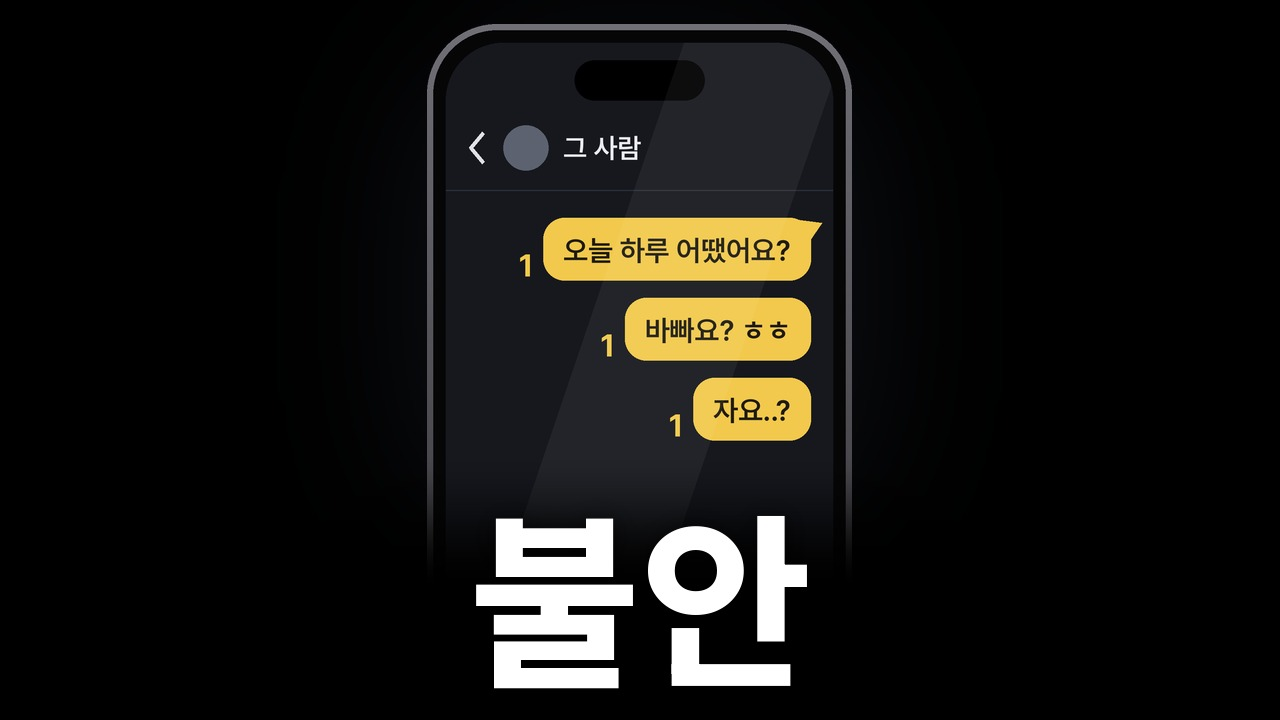
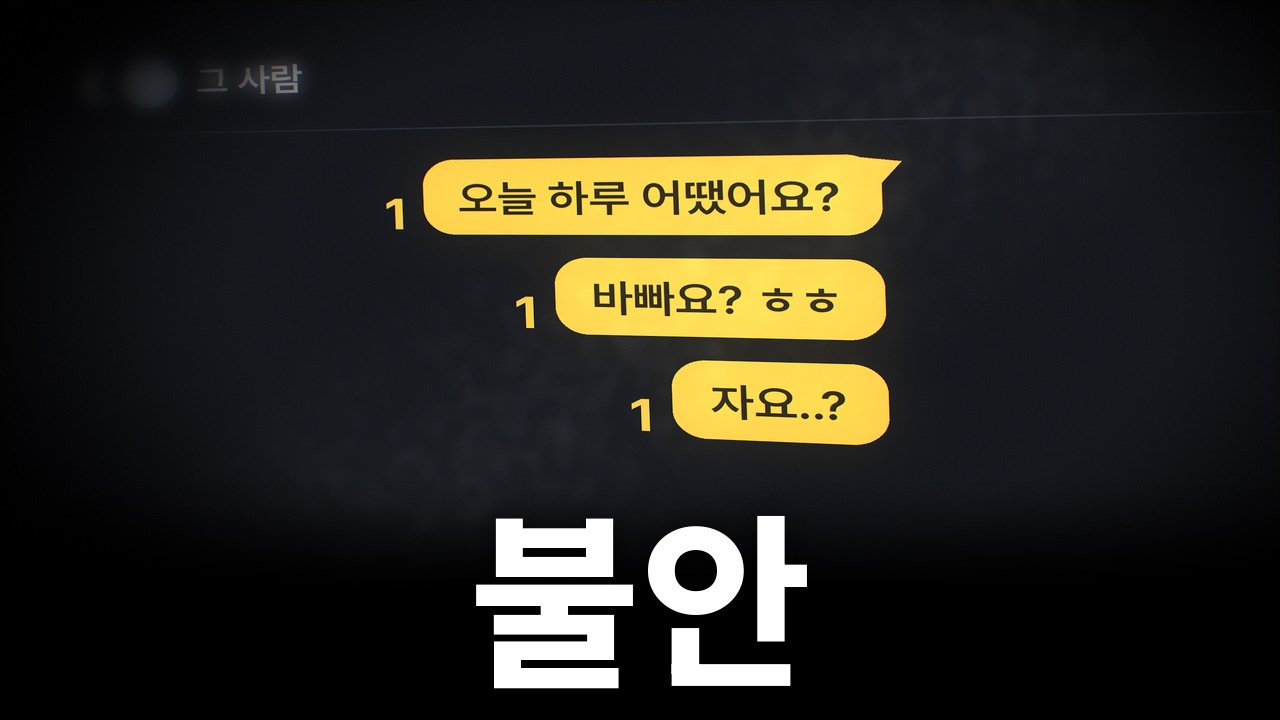
F의연애: 01편 썸네일을 채팅 확대판으로 변경
- thumb_chat.py: 휴대폰 몸체 없이 채팅 내용만 크게, 화면을 가까이서 찍은 사진처럼 처리(원근, 초점 흐림, 빛 번짐, 반사)
- 01편 썸네일 빨간 글씨판과 비교용 흰 글씨판(1280x720), 이전 휴대폰판은 초안/으로 이동
- README, CLAUDE.md, 진행기록 갱신

Claude-Session: https://claude.ai/code/session_01W2LvTK1LxBBrCR9gG9ohCC

diff --git a/F의연애/썸네일/thumb_chat.py b/F의연애/썸네일/thumb_chat.py
@@ -1,0 +1,106 @@
+# 「F의 연애」 썸네일: 채팅 확대판 (2026-10-22 사용자 지시)
+# 휴대폰 몸체 없이 대화 내용만 크게 확대해, 썸네일을 작게 봐도 노란 말풍선과 읽지 않은 '1'이 눈에 들어오게 한다.
+# 실제 화면을 가까이서 찍은 사진처럼 보이게: 살짝 기운 원근, 가장자리 초점 흐림, 말풍선 빛 번짐, 은은한 화면 반사.
+# 배경은 검은색으로 사라지고, 아래에 주제 단어(thumb.py와 같은 글꼴·위치).
+#
+# usage: thumb_chat.py OUT.jpg --word 불안 --color red [--msgs "a|b|c"] [--name "그 사람"]
+import os, sys
+import numpy as np
+from PIL import Image, ImageDraw, ImageFilter
+
+sys.path.insert(0, os.path.dirname(os.path.abspath(__file__)))
+from thumb import W, H, YEL, font, bottom_fade, put_word   # noqa: E402
+
+S = 2                       # draw at 2x, then downsample
+SCREEN = (22, 24, 30)       # dark-mode chat background
+
+
+def chat_panel(msgs, name):
+    """Flat dark-mode chat panel at 2x. Bubbles are big: about 88 px tall in the final 1280x720 thumbnail."""
+    pw, ph = 1180 * S, 700 * S
+    img = Image.new("RGB", (pw, ph), SCREEN)
+    d = ImageDraw.Draw(img)
+    hy = 62 * S                                                     # header (ends up soft and partly cropped)
+    d.line([(70 * S, hy - 22 * S), (52 * S, hy), (70 * S, hy + 22 * S)], fill=(225, 225, 230), width=6 * S, joint="curve")
+    d.ellipse([96 * S, hy - 32 * S, 160 * S, hy + 32 * S], fill=(92, 98, 112))
+    d.text((182 * S, hy), name, font=font("SemiBold", 42 * S), fill=(235, 235, 240), anchor="lm")
+    d.line([(0, 128 * S), (pw, 128 * S)], fill=(44, 47, 56), width=2 * S)
+    fb, f1 = font("SemiBold", 46 * S), font("Bold", 54 * S)
+    y = 168 * S
+    right = pw - 320 * S
+    for i, m in enumerate(msgs):
+        tw = fb.getlength(m)
+        bw, bh = tw + 72 * S, 92 * S
+        x1, x0 = right, right - bw
+        d.rounded_rectangle([x0, y, x1, y + bh], radius=32 * S, fill=YEL)
+        if i == 0:
+            d.polygon([(x1 - 40 * S, y), (x1 + 18 * S, y + 8 * S), (x1 - 4 * S, y + 38 * S)], fill=YEL)
+        d.text(((x0 + x1) / 2, y + bh / 2 + 2 * S), m, font=fb, fill=(30, 26, 18), anchor="mm")
+        d.text((x0 - 16 * S, y + bh - 6 * S), "1", font=f1, fill=YEL, anchor="rs")
+        y += bh + 28 * S
+    return img
+
+
+def perspective_coeffs(dst, src):
+    A, B = [], []
+    for (x, y), (u, v) in zip(dst, src):
+        A.append([x, y, 1, 0, 0, 0, -u * x, -u * y]); B.append(u)
+        A.append([0, 0, 0, x, y, 1, -v * x, -v * y]); B.append(v)
+    return np.linalg.solve(np.array(A, np.float64), np.array(B, np.float64)).tolist()
+
+
+def photo_look(panel):
+    """Place the panel with a mild 3D tilt (left side farther away), then add depth of field, glow and glare."""
+    CW, CH = W * S, H * S
+    pw, ph = panel.size
+    # target quad (2x canvas): right edge nearer/taller than the left edge, slight downward tilt
+    dst = [(40 * S, 40 * S), (1270 * S, -10 * S), (1290 * S, 650 * S), (60 * S, 560 * S)]
+    src = [(0, 0), (pw, 0), (pw, ph), (0, ph)]
+    img = panel.transform((CW, CH), Image.PERSPECTIVE, perspective_coeffs(dst, src), Image.BICUBIC, fillcolor=SCREEN)
+    a = np.asarray(img, np.float32)
+    # depth of field: sharp around the bubbles, softer toward the far (left) side and the top header
+    yy, xx = np.mgrid[0:CH, 0:CW].astype(np.float32)
+    cx, cy = 760 * S, 300 * S
+    dist = np.sqrt(((xx - cx) / (560 * S)) ** 2 + ((yy - cy) / (300 * S)) ** 2)
+    wgt = np.clip((dist - 0.75) / 0.6, 0, 1)
+    soft = np.asarray(img.filter(ImageFilter.GaussianBlur(9 * S)), np.float32)
+    a = a * (1 - wgt[..., None]) + soft * wgt[..., None]
+    # glow: bright yellow bubbles bloom a little, like a lit screen in a dark room
+    lum = a.mean(2)
+    bright = Image.fromarray(np.clip((lum - 120) * 2, 0, 255).astype(np.uint8)).filter(ImageFilter.GaussianBlur(26 * S))
+    a += (np.asarray(bright, np.float32) / 255)[..., None] * np.array([70, 55, 15], np.float32)
+    # faint diagonal glare on the glass; smudges (fingerprints) only show where the glare is, as on real glass
+    band = np.clip(1 - np.abs((xx - 0.62 * CW) * 0.8 + (yy - 0.3 * CH) * 1.0) / (260 * S), 0, 1)
+    rng = np.random.default_rng(11)
+    sm = Image.fromarray((rng.random((CH // 8, CW // 8)) * 255).astype(np.uint8)).resize((CW, CH), Image.BICUBIC)
+    sm = np.asarray(sm.filter(ImageFilter.GaussianBlur(6 * S)), np.float32) / 255
+    a += (band * (6 + 16 * np.clip((sm - 0.45) * 3, 0, 1)))[..., None]
+    # light falls off toward the frame edges (dark room): fade to pure black
+    r = np.sqrt(((xx - 0.55 * CW) / (0.62 * CW)) ** 2 + ((yy - 0.40 * CH) / (0.62 * CH)) ** 2)
+    v = np.clip(1 - (r - 0.55) / 0.5, 0, 1)
+    a *= (v * v * (3 - 2 * v))[..., None]
+    a += np.random.default_rng(3).normal(0, 1.6, a.shape)          # faint sensor noise
+    img = Image.fromarray(np.clip(a, 0, 255).astype(np.uint8))
+    # lens: red and blue drift apart slightly toward the edges (chromatic aberration)
+    rch, gch, bch = img.split()
+    def zoom(ch, k):
+        w2, h2 = round(CW * k), round(CH * k)
+        z = ch.resize((w2, h2), Image.BICUBIC)
+        return z.crop(((w2 - CW) // 2, (h2 - CH) // 2, (w2 - CW) // 2 + CW, (h2 - CH) // 2 + CH))
+    img = Image.merge("RGB", (zoom(rch, 1.0016), gch, zoom(bch, 0.9984)))
+    out = img.resize((W, H), Image.LANCZOS)
+    return out
+
+
+def make(out, msgs, name, word, color):
+    img = photo_look(chat_panel(msgs, name))
+    img = bottom_fade(img, 470, 600)
+    put_word(img, word, color).save(out, quality=93)
+
+
+if __name__ == "__main__":
+    a = sys.argv[1:]
+    opt = lambda k, dflt: a[a.index(k) + 1] if k in a else dflt
+    make(a[0], opt("--msgs", "오늘 하루 어땠어요?|바빠요? ㅎㅎ|자요..?").split("|"), opt("--name", "그 사람"),
+         opt("--word", "불안"), opt("--color", "red"))
+    print(a[0])

diff --git a/F의연애/썸네일/README.md b/F의연애/썸네일/README.md
@@ -2,7 +2,11 @@
 
 사용자 지시(2026-10-22): 뒷배경은 검은색. VOX 느낌으로 내용의 핵심이 되는 물체를 가운데 두고, 그 밑에 영상 주제 단어를 크게 쓴다(빨간색 또는 흰색).
 
-갱신(2026-10-22): 사용자가 시안 B(휴대폰 + 빨간 글씨)를 골랐다. 첫 시안 글씨(Pretendard Black)가 촌스럽다고 해서, 사용자가 보여 준 참고 썸네일처럼 깔끔한 본고딕 계열로 바꿨다.
+갱신(2026-10-22)
+1. 사용자가 시안 B(휴대폰 + 빨간 글씨)를 골랐다. 첫 시안 글씨(Pretendard Black)가 촌스럽다고 해서, 사용자가 보여 준 참고 썸네일처럼 깔끔한 본고딕 계열로 바꿨다.
+2. 사용자 지시: 참고 채널처럼 만들되 너무 따라 하지 않게. 롱폼 가로 크기로. 뒤의 그림은 최대한 사진처럼. 휴대폰 몸체는 굳이 필요 없으니, 안의 대화 내용만 확대해서 작게 봐도 눈에 확 들어오게.
+3. 그래서 01편은 휴대폰을 빼고 채팅 내용만 크게 확대한 판(thumb_chat.py)으로 바꿨다. 화면을 가까이서 찍은 사진처럼 처리했다.
+4. 참고 채널과 다르게 가는 점: 우리 채널의 노란 말풍선·읽지 않은 '1'을 물체로 쓰고, 제목은 빨간색을 쓴다(참고 채널은 사진 속 사물 + 흰 제목).
 
 ---
 
@@ -10,7 +14,8 @@
 
 1. 크기: 1280×720, JPG. 「INFJ입니다.」 지침 7-1과 같은 크기입니다.
 2. 배경: 순검정
-3. 물체: 가운데 위쪽에 둡니다. 휴대폰은 위 끝 y=24, 너비 425px입니다. 아래쪽은 y=450~590에서 검게 사라져 글자 뒤를 비웁니다.
+3. 물체: 가운데 위쪽에 둡니다. 작게 봐도 알아보도록 핵심만 크게 씁니다(01편은 말풍선 높이 약 90px). 아래쪽은 y=470~600에서 검게 사라져 글자 뒤를 비웁니다.
+   - 사진처럼 보이게 하는 처리(thumb_chat.py): 살짝 기운 원근(왼쪽이 멀어짐), 가장자리 초점 흐림, 말풍선 빛 번짐, 유리 반사와 지문 얼룩, 아주 약한 렌즈 색 번짐과 노이즈, 가장자리를 검게 감싸는 조명
 4. 주제 단어
    - 글꼴: Noto Sans KR(본고딕 계열, OFL) 굵기 800(ExtraBold), 186px, 가운데 정렬, 글자 바닥선 y=672
    - 글자 아래에 은은한 검은 그림자(아래로 6px, 흐림 14px)를 깔아 물체와 떼어 줍니다.
@@ -33,9 +38,9 @@
 
 ## 3. 01편 (01_불안형_답장/)
 
-1. 썸네일_빨간글씨.jpg: 사용자가 고른 B안을 새 글꼴로 다시 만든 것. 나만 보낸 채팅 화면(말풍선 3개마다 읽지 않은 '1') + 빨간 글씨 "불안"
-2. 썸네일_흰글씨.jpg: 같은 그림 + 흰 글씨(참고 썸네일과 같은 색, 비교용)
-3. 초안/: 첫 시안 A(휴대폰 + 흰 글씨), B(휴대폰 + 빨간 글씨), C(손 사진 + 빨간 글씨). 글꼴은 Pretendard Black
+1. 썸네일_빨간글씨.jpg: 채팅 확대판. 나만 보낸 말풍선 3개("오늘 하루 어땠어요?", "바빠요? ㅎㅎ", "자요..?")와 읽지 않은 '1' + 빨간 글씨 "불안"
+2. 썸네일_흰글씨.jpg: 같은 그림 + 흰 글씨(비교용)
+3. 초안/: 첫 시안 A·B·C(Pretendard Black), B2(휴대폰 + 본고딕 글씨, 빨간·흰)
 
 ---
 
@@ -44,9 +49,11 @@
 1. 글꼴을 fonts/에 둡니다(또는 FONT_DIR 환경 변수로 위치 지정).
    - 주제 단어: Noto Sans KR 가변 글꼴(OFL)을 NotoSansKR-VF.ttf라는 이름으로 저장합니다. https://raw.githubusercontent.com/google/fonts/main/ofl/notosanskr/NotoSansKR%5Bwght%5D.ttf
    - 휴대폰 화면 글자: Pretendard Bold·SemiBold(OFL). https://cdn.jsdelivr.net/npm/pretendard@1.3.9/dist/public/static/Pretendard-Bold.otf (SemiBold도 같은 형식)
-2. 휴대폰 물체
+2. 채팅 확대판(01편 결정안)
+   - `python3 thumb_chat.py out.jpg --word 불안 --color red --msgs "오늘 하루 어땠어요?|바빠요? ㅎㅎ|자요..?" --name "그 사람"`
+3. 휴대폰 물체(초안 방식)
    - `python3 thumb.py phone out.jpg --word 불안 --color white --msgs "오늘 하루 어땠어요?|바빠요? ㅎㅎ|자요..?" --name "그 사람"`
-3. 사진 물체
+4. 사진 물체
    - `ffmpeg -ss 1.0 -i 4915.mp4 -frames:v 1 f.png`
    - `python3 thumb.py photo out.jpg f.png --word 불안 --color red --crop 192,216,1728,1080 --gamma 1.35`
-4. 필요한 파이썬 패키지: pillow, numpy
+5. 필요한 파이썬 패키지: pillow, numpy

diff --git a/F의연애/CLAUDE.md b/F의연애/CLAUDE.md
@@ -165,7 +165,7 @@
 1. 01편(A1-1 불안형 답장) 초안 v1에 대한 사용자 검토 반영(대본/01_불안형_답장.md).
    - 사용자가 최종 대본과 녹음 파일을 주면 스톡 혼합 방식으로 본편 영상(효과음 포함)을 만든다(아래 '영상 제작').
    - 정해진 것(2026-10-22): 제작 방식은 스톡 혼합, 하단 자막은 넣는다(스톡 혼합 규격).
-   - 썸네일: 틀을 정했다(썸네일/README.md). 검은 배경 + 가운데 핵심 물체 + 아래 큰 주제 단어. 01편은 B안(직접 그린 휴대폰 채팅 화면 + 빨간 글씨 "불안")으로 결정했고, 글씨는 본고딕 계열(Noto Sans KR 800)로 바꿨다(2026-10-22). 결과: 썸네일/01_불안형_답장/썸네일_빨간글씨.jpg
+   - 썸네일: 틀을 정했다(썸네일/README.md). 검은 배경 + 가운데 핵심 물체(작게 봐도 보이게 크게, 사진처럼) + 아래 큰 주제 단어(본고딕 계열 Noto Sans KR 800). 참고 채널처럼 하되 너무 따라 하지 않는다(2026-10-22 사용자 지시). 01편은 휴대폰 없이 채팅 내용만 확대한 판 + 빨간 글씨 "불안". 결과: 썸네일/01_불안형_답장/썸네일_빨간글씨.jpg
    - 결정 대기: 사례 구간 캐릭터(감자를 쓸지, 어떻게 만들지)
 2. 다음 편 소재는 사용자에게 먼저 묻는다.
 3. 핸들 확정: 유튜브 스튜디오와 인스타그램 앱에서 직접 입력해 확인(진행기록.md 참고).

diff --git a/F의연애/진행기록.md b/F의연애/진행기록.md
@@ -4,6 +4,18 @@
 
 ---
 
+## 2026-10-22 (8) 썸네일: 채팅 내용만 확대, 사진처럼
+
+1. 사용자 지시
+- 참고 채널처럼 썸네일을 만들되 너무 따라 한 것처럼 보이지 않게
+- 롱폼 가로 썸네일 크기로, 뒤의 그림은 최대한 현실적인 사진풍으로
+- 휴대폰까지 나올 필요는 없다. 안의 대화 내용만 확대해서, 작게 봐도 눈에 확 들어오게
+2. 진행: AI로 사진풍 휴대폰을 만들어 화면에 채팅을 합성하려다가, 세 번째 지시에 맞춰 중단했다. 대신 채팅 내용만 크게 그려 화면을 가까이서 찍은 사진처럼 처리했다(thumb_chat.py).
+3. 결과: 썸네일/01_불안형_답장/썸네일_빨간글씨.jpg(1280×720). 흰 글씨판도 비교용으로 만들었다. 이전 휴대폰판(B2)은 초안/으로 옮겼다.
+4. 참고 채널과 다른 점: 사진 속 사물 + 흰 제목인 참고 채널과 달리, 우리 채널의 노란 말풍선·'1'을 물체로 쓰고 제목은 빨간색이다.
+
+---
+
 ## 2026-10-22 (7) 썸네일 글씨 수정, 01편 썸네일 결정
 
 1. 사용자 피드백: B안(휴대폰 + 빨간 글씨)이 괜찮다. 다만 글씨가 촌스럽다. 참고로 보여 준 채널 썸네일(검은 배경 물체 + 흰 굵은 제목, 예: "호감의 역설", "북극곰 효과")의 글씨처럼 깔끔하게, 롱폼 가로 썸네일 크기로 만들어 달라.
